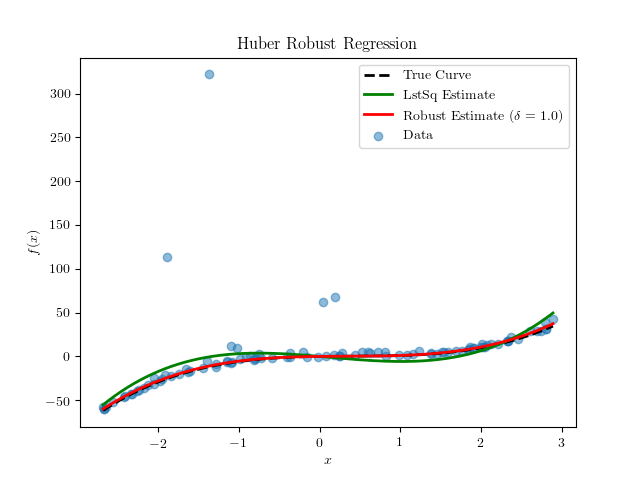
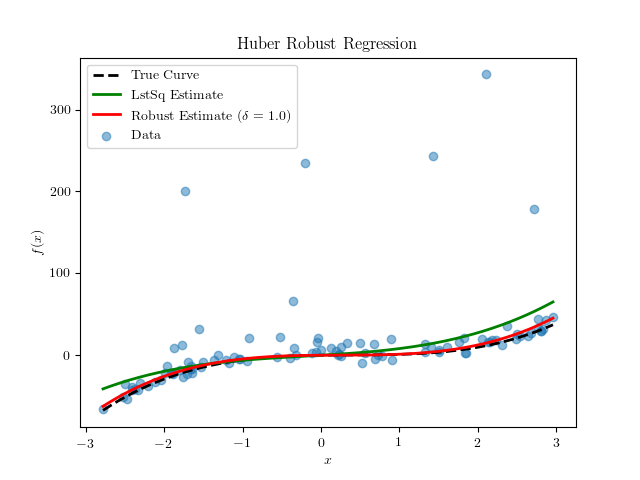
Slightly modified huber regression example to make the plot look better.

diff --git a/examples.py b/examples.py
@@ -473,8 +473,8 @@ def example_smooth_huber():
         x = np.random.uniform(-3, 3, size=N)
         X = np.hstack((x[:, None]**k for k in range(1, m + 1)))
         y = (y_curve(beta, X) +
-             np.random.normal(loc=0.0, scale=np.sqrt(0.5), size=N) +
-             np.random.pareto(a=0.9, size=N))
+             np.random.normal(loc=0.0, scale=np.sqrt(15), size=N) +
+             3 * np.random.pareto(a=1.1, size=N))
         return X, y
 
     # Generate some data
